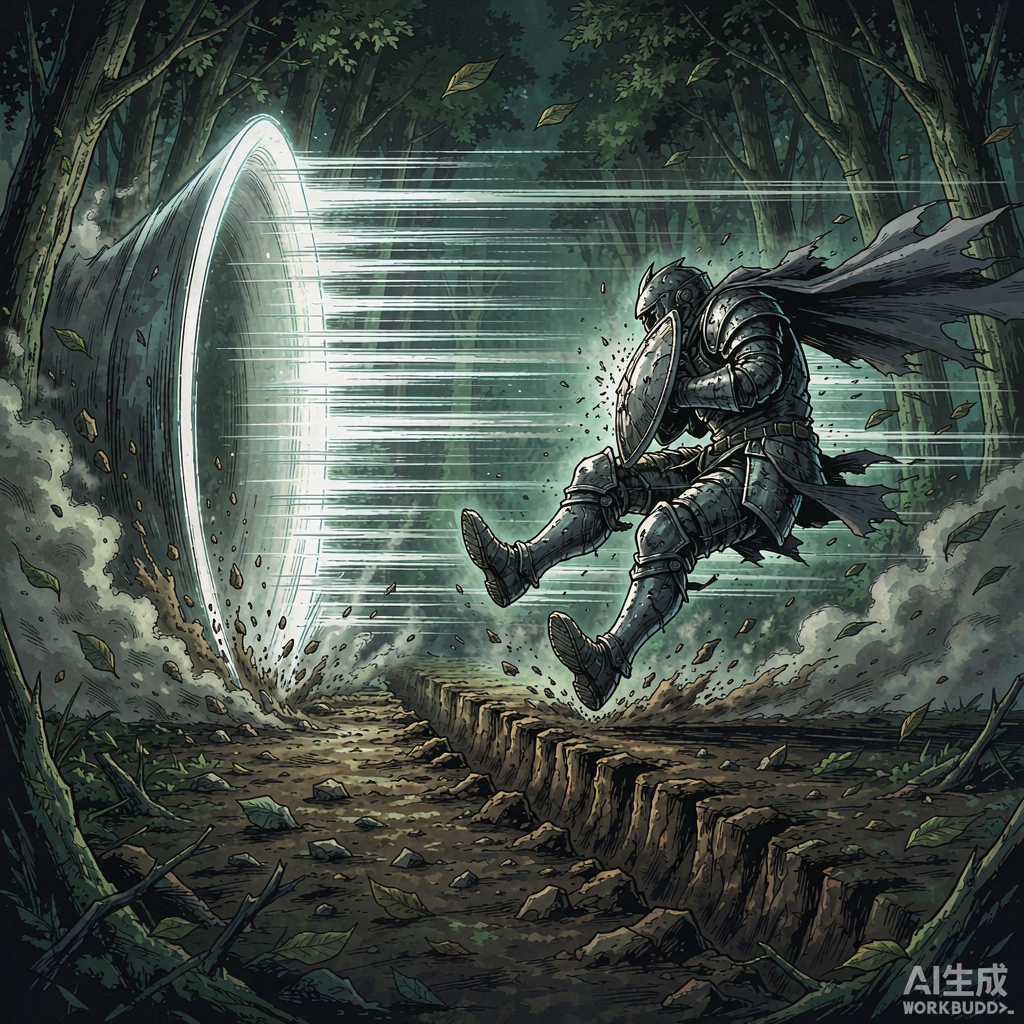
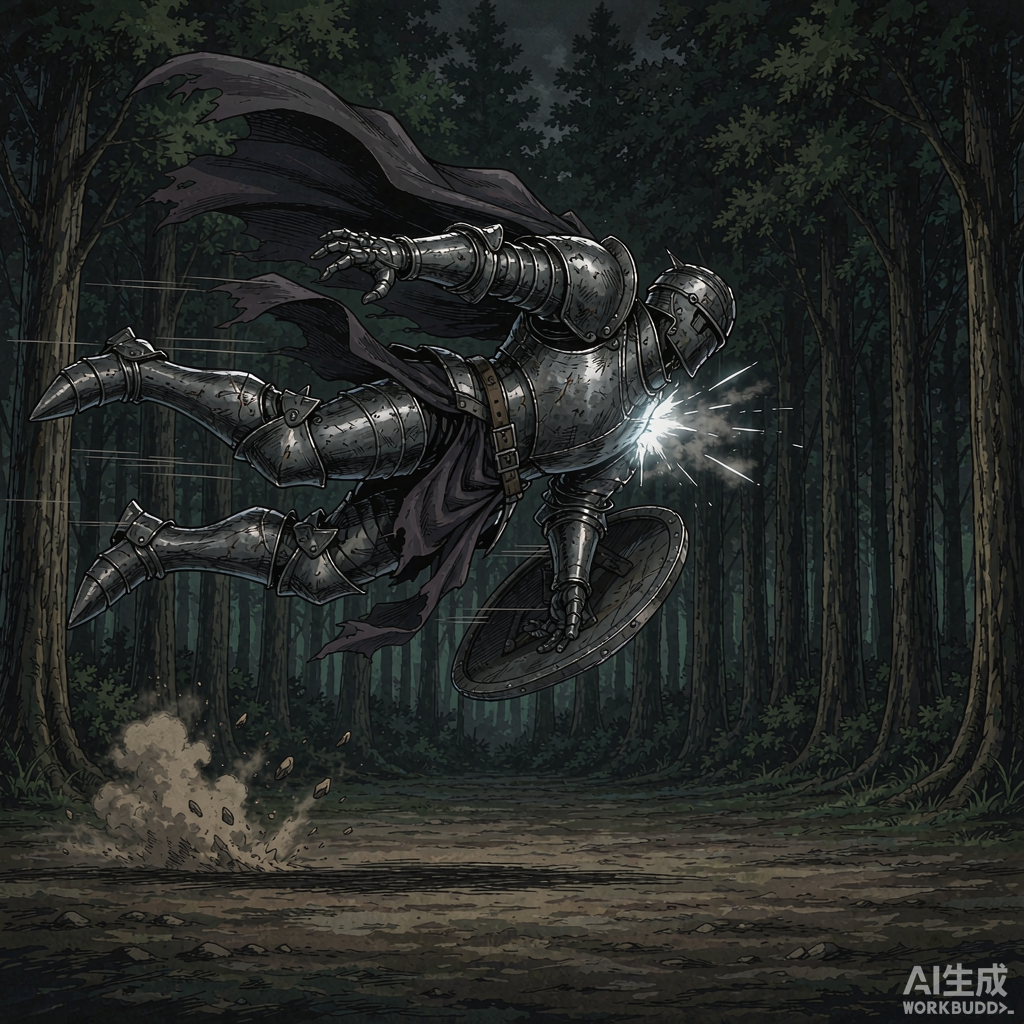
R257 9004 击退第三版：去掉地面犁痕，改为腾空横飞 + 胸口冲击点

diff --git a/art_src/2026-10-19_卡图批次C/README.md b/art_src/2026-10-19_卡图批次C/README.md
@@ -120,6 +120,31 @@ NOT a portal, NOT a circle facing the camera` + `a long straight FURROW is plowe
 > **经验：单向动作的构图必须「拒绝一切闭环」——圆盘/环/漩涡一旦出现，方向感立刻被读成「被吸进去」而不是「被推出去」。**
 改前/改后对照：`art_src/_review/_r256_knockback_before_after.png`
 
+## R257 第三版 9004 击退：砍掉地面轨迹，改成「横着被打飞」
+
+用户口径：**「依然很奇怪，尤其是地面的轨迹毫无道理」**——R256 那版在地面犁出了一道长土沟，
+可人明明已经腾空，脚下根本没有东西在刮地，**这条沟纯属我自作主张加的假线索**（而且披风方向也画反了：
+人朝右飞，布料应因惯性拖向**左**，即来向）。
+
+这一版做的是减法：
+
+| 项目 | R256 | R257 |
+|---|---|---|
+| 地面 | 一道犁地长沟 + 土块 | **只有原来站位处一小团被掀起的尘土 + 几块碎石，路面平整** |
+| 气波 | 侧视竖弧墙占半幅 | 只剩**胸口一团紧凑的白光冲击爆点**，不画墙、不画盘 |
+| 人物 | 45° 后仰、脚还在找地 | **几乎水平、完全腾空**（头朝右=飞向，靴子朝左=来向） |
+| 披风 | 朝右（错） | **朝左拖**（朝来向，符合惯性） |
+| 背景 | 满屏特效 | 右侧留大片空林做负空间，指示被打飞的方向 |
+
+- 提示词负面清单写死：`NO furrow, NO trench, NO groove, NO ditch, NO track, NO skid marks, NO scrape line`，
+  以及 `NOT a wall, NOT a disc, NOT a circle, NOT a ring, NOT a sphere, NOT a loop, NOT a spiral, NOT a vortex`。
+- 出了 3 版（B/C 见对照图，均未采用）：B 盾牌在手但整体偏黑、受力点在腰；C 白天亮光但受力点偏低、盾牌像浮在空中。
+- **采用 A**：胸口受力、披风朝左、腾空横飞。
+- 对照图：`art_src/_review/_r257_knockback_versions.png`
+
+> **经验：先问「这个痕迹在物理上是谁留下的」。人已腾空就不该有地面拖痕；站地滑退才配擦痕。
+> 加线索必须过一遍物理检查，否则读者第一反应就是「毫无道理」。**
+
 ## 处理流程（同批次 A / B）
 
 1. 白底图按非白像素 bbox 裁边 + 内缩 6px；**这六张都是满屏背景，bbox = 全图，等于不裁**。
